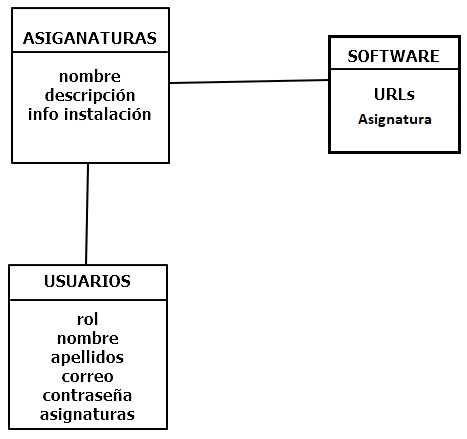
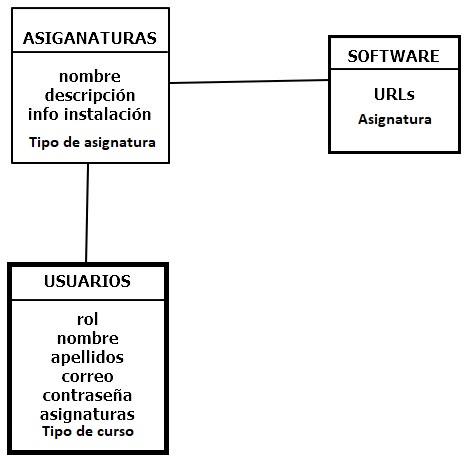
Cambio el modelo.png y el modelo de usuarios

diff --git a/NodeJsMongoDBCrudLogin -Andrea,Alejandra,Natalia/models/usuarios.js b/NodeJsMongoDBCrudLogin -Andrea,Alejandra,Natalia/models/usuarios.js
@@ -23,6 +23,10 @@ const userSchema = new Schema({
   imagen_perfil: {
     type: String, 
   },
+  tipo_curso: {
+    type: String, 
+    required: true 
+  },
   asignaturas: { 
     type: Array
   },
